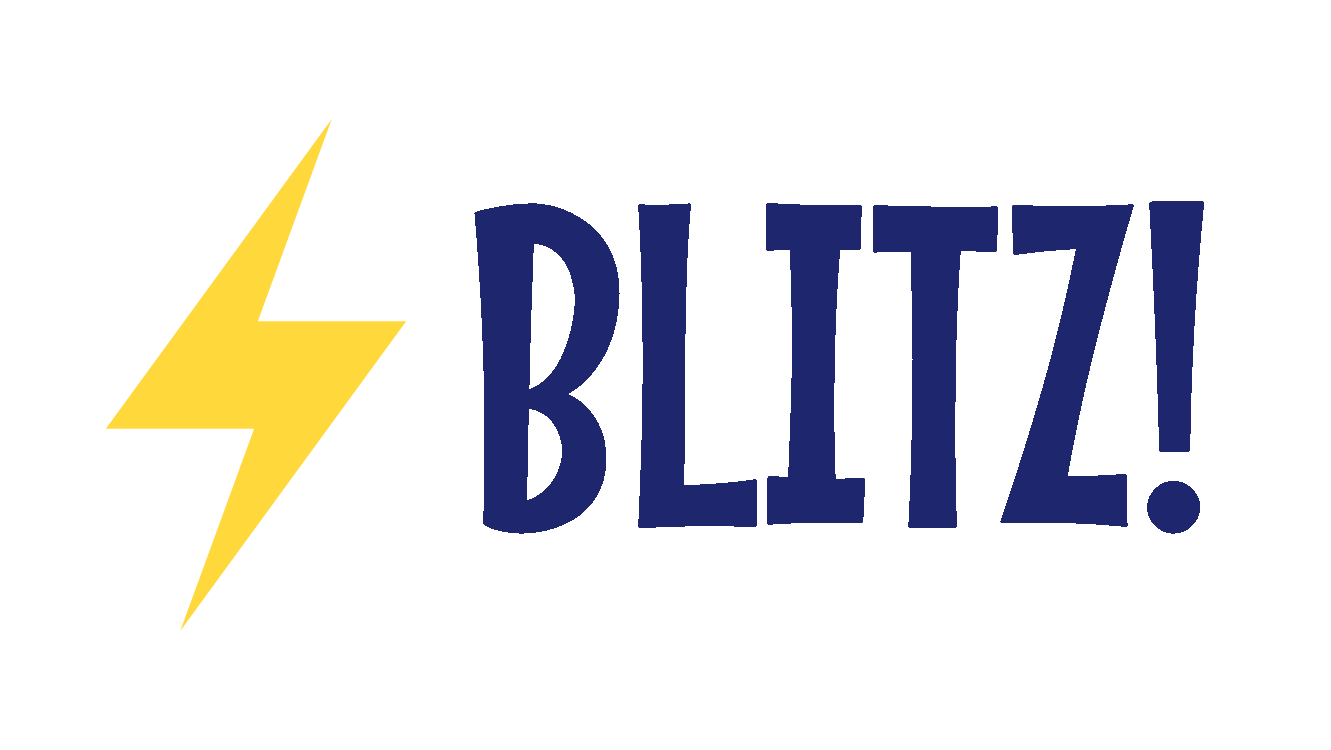
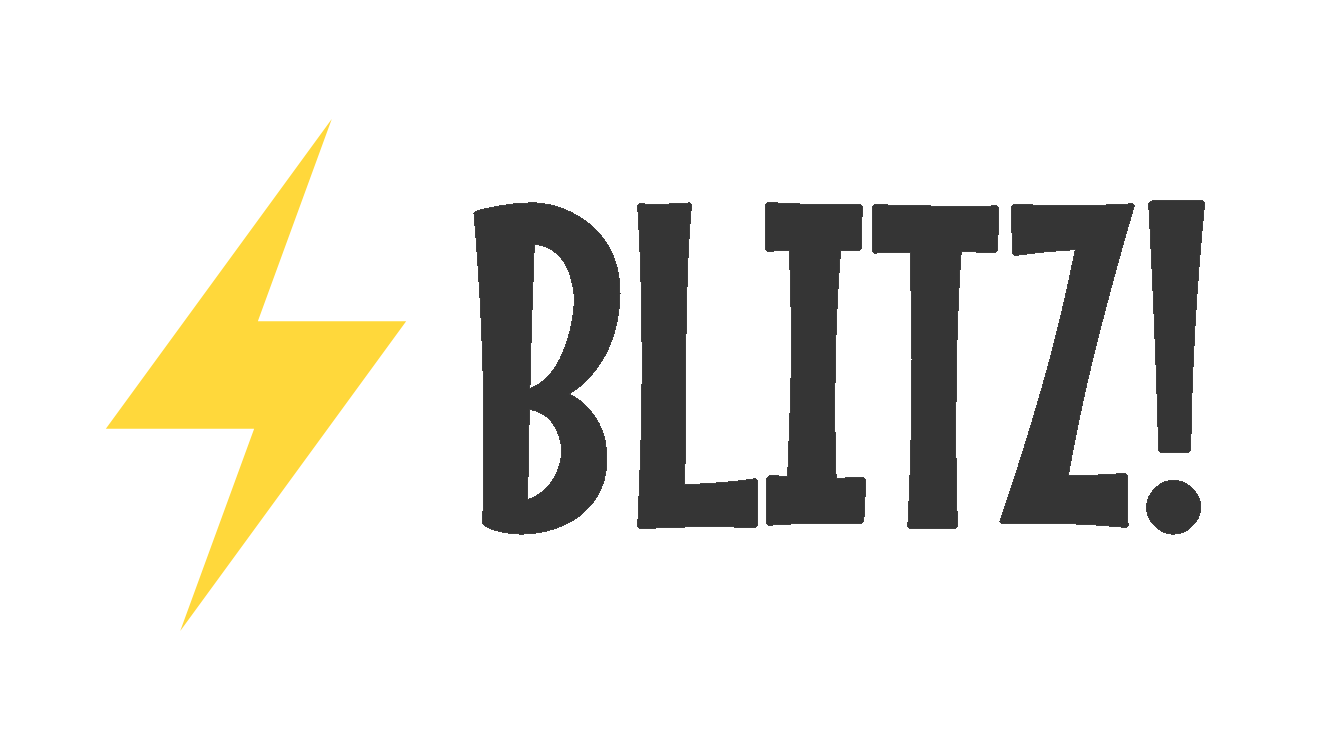
404 page

Changed region(s): [[0.3388, 0.2453, 0.9241, 0.736]]

diff --git a/src/app/my-sets/page.tsx b/src/app/my-sets/page.tsx
@@ -1,7 +1,65 @@
 'use client'
 
+import { useEffect, useState } from 'react';
+
 import styles from './page.module.css';
+import Loading from '@/components/loading/loading';
+import BasicReturn from '@/components/basic-return/return';
+import useCurrentUser from '@/hooks/useCurrentUser';
+import NeedSignin from '@/components/require-signin/needsignin';
+import { doc, collection, getDoc } from 'firebase/firestore';
+import { firestore } from '@baas/init';
 
 export default function MySetsPage() {
-    return(<div></div>);
+    const [sets, setSets] = useState<any[]|null>(null);
+
+    const { currentUser, userLoading, signedIn } = useCurrentUser();
+    const [loading, setLoading] = useState(true);
+
+    useEffect(() => {
+        if (!signedIn) {
+            setLoading(false);
+            return;
+        }
+
+        (async () => {
+            const userRef = doc(collection(firestore, 'users'), currentUser.uid);
+            const userDoc = await getDoc(userRef);
+
+            if (!userDoc.exists()) {
+                setLoading(false);
+                return;
+            }
+
+            const userData = userDoc.data();
+            const userSets = userData.sets;
+
+            if (userSets === undefined) {
+                setLoading(false);
+                return;
+            }
+
+            setSets(userSets);
+        })();
+    }, [signedIn]);
+
+    if (!signedIn) {
+        return(<NeedSignin />);
+    } else if (loading || userLoading || !sets) {
+        return(<Loading />);
+    }
+
+    if (sets && sets.length === 0) {
+        return(<BasicReturn text='No sets available' returnLink='/' />)
+    }
+
+    return(
+        <div>
+            {sets.map((set, index) => {
+                return(
+                    <h1 key={index}>{set.name}</h1>
+                );
+            })}
+        </div>
+    );
 }

diff --git a/src/app/create/page.tsx b/src/app/create/page.tsx
@@ -98,7 +98,12 @@ export default function CreatePage() {
         const userRef = doc(collection(firestore, 'users'), currentUser.uid);
 
         await updateDoc(userRef, {
-             sets: arrayUnion(newSetId)
+             sets: arrayUnion({
+                    id: newSetId,
+                    name: nameField,
+                    description: descriptionField,
+                    image: imageUrl
+             })
         });
 
         return {
@@ -161,7 +166,12 @@ export default function CreatePage() {
         
                 const userRef = doc(collection(firestore, 'users'), currentUser.uid);
                 await updateDoc(userRef, {
-                     sets: arrayUnion(newSetId)
+                     sets: arrayUnion({
+                            id: newSetId,
+                            name: aiPrompt,
+                            description: `${aiPrompt} set generated by AI`,
+                            image: '/images/missingimage.jpg'
+                     })
                 });
 
                 router.push(`/edit/${newSetId}`);

diff --git a/src/app/components/basic-return/return.module.css b/src/app/components/basic-return/return.module.css
@@ -1,0 +1,54 @@
+.container {
+    position: fixed;
+    left: 0;
+    top: 134px;
+
+    width: 100vw;
+    height: calc(100vh - 134px);
+
+    display: flex;
+    flex-direction: column;
+    align-items: center;
+    justify-content: center;
+
+    z-index: 900;
+}
+
+.content {
+    display: flex;
+    flex-direction: column;
+    align-items: center;
+    justify-content: center;
+
+    transform: translateY(-100px);
+}
+
+.title {
+    font-weight: bold;
+    width: 600px;
+    text-align: center;
+    font-family: 'SF Pro Display';
+    font-size: 60px;
+    color: var(--text-color);
+    margin-bottom: 1rem;
+}
+
+.gohome {
+    font-family: 'SF Pro Display';
+    font-size: 24px;
+    font-weight: 500;
+    color: var(--bg);
+    margin-top: 15px;
+
+    padding: 10px 20px;
+    border-radius: 10px;
+    border: none;
+    background-color: var(--primary-color);
+
+    transition: 0.1s ease-in-out;
+    cursor: pointer;
+}
+
+.gohome:active {
+    transform: scale(0.95);
+}

diff --git a/src/app/profile/[id]/page.tsx b/src/app/profile/[id]/page.tsx
@@ -6,6 +6,7 @@ import { useEffect, useState } from 'react';
 import Loading from '@/components/loading/loading';
 import { collection, doc, getDoc } from 'firebase/firestore';
 import { firestore } from '@baas/init';
+import BasicReturn from '@/components/basic-return/return';
 
 export default function ProfilePage() {
     const userId = usePathname().split('/')[2];
@@ -19,6 +20,7 @@ export default function ProfilePage() {
             const userDoc = await getDoc(userRef);
 
             if (!userDoc.exists()) {
+                setLoading(false);
                 return;
             }
 
@@ -32,7 +34,7 @@ export default function ProfilePage() {
     }
 
     if (!user) {
-        return(<div>User does not exist</div>);
+        return(<BasicReturn text='User does not exist' returnLink='/' />);
     }
 
     return (

diff --git a/src/app/explore/sets/page.tsx b/src/app/explore/sets/page.tsx
@@ -13,6 +13,7 @@ import useCurrentUser from "@/hooks/useCurrentUser";
 import Image from "next/image";
 import Waiting from "@/live/[id]/waiting/waiting";
 import Link from "next/link";
+import BasicReturn from "@/components/basic-return/return";
 
 export default function ExploreSetsPage() {
     const router = useRouter();
@@ -88,7 +89,7 @@ export default function ExploreSetsPage() {
     }
 
     if (sets.length === 0) {
-        return(<h1>No sets available</h1>);
+        return(<BasicReturn text="No sets are available" returnLink="/" />);
     }
 
     return(

diff --git a/src/app/components/basic-return/return.tsx b/src/app/components/basic-return/return.tsx
@@ -1,0 +1,15 @@
+'use client'
+
+import Link from 'next/link'
+import styles from './return.module.css'
+
+export default function BasicReturn(props:{ text:string, returnLink:string }) {
+    return(
+        <div className={styles.container}>
+            <div className={styles.content}>
+                <h1 className={styles.title}>{props.text}</h1>
+                <Link href={props.returnLink}><button className={styles.gohome}>Return</button></Link>
+            </div>
+        </div>
+    )
+}

diff --git a/src/app/not-found.tsx b/src/app/not-found.tsx
@@ -1,0 +1,11 @@
+'use client'
+
+import BasicReturn from './components/basic-return/return'
+ 
+export default function NotFound() {
+  return (
+    <div>
+      <BasicReturn text='The page you are looking for cannot be found.' returnLink='/' />
+    </div>
+  )
+}

diff --git a/src/app/globals.css b/src/app/globals.css
@@ -11,7 +11,7 @@
     --bg-dark: #e5e9ec;
     --primary-color: #3440ad;
     --secondary-color: #ff6b6b;
-    --text-color: #1E266D;
+    --text-color: #353535;
 }
 
 body {
